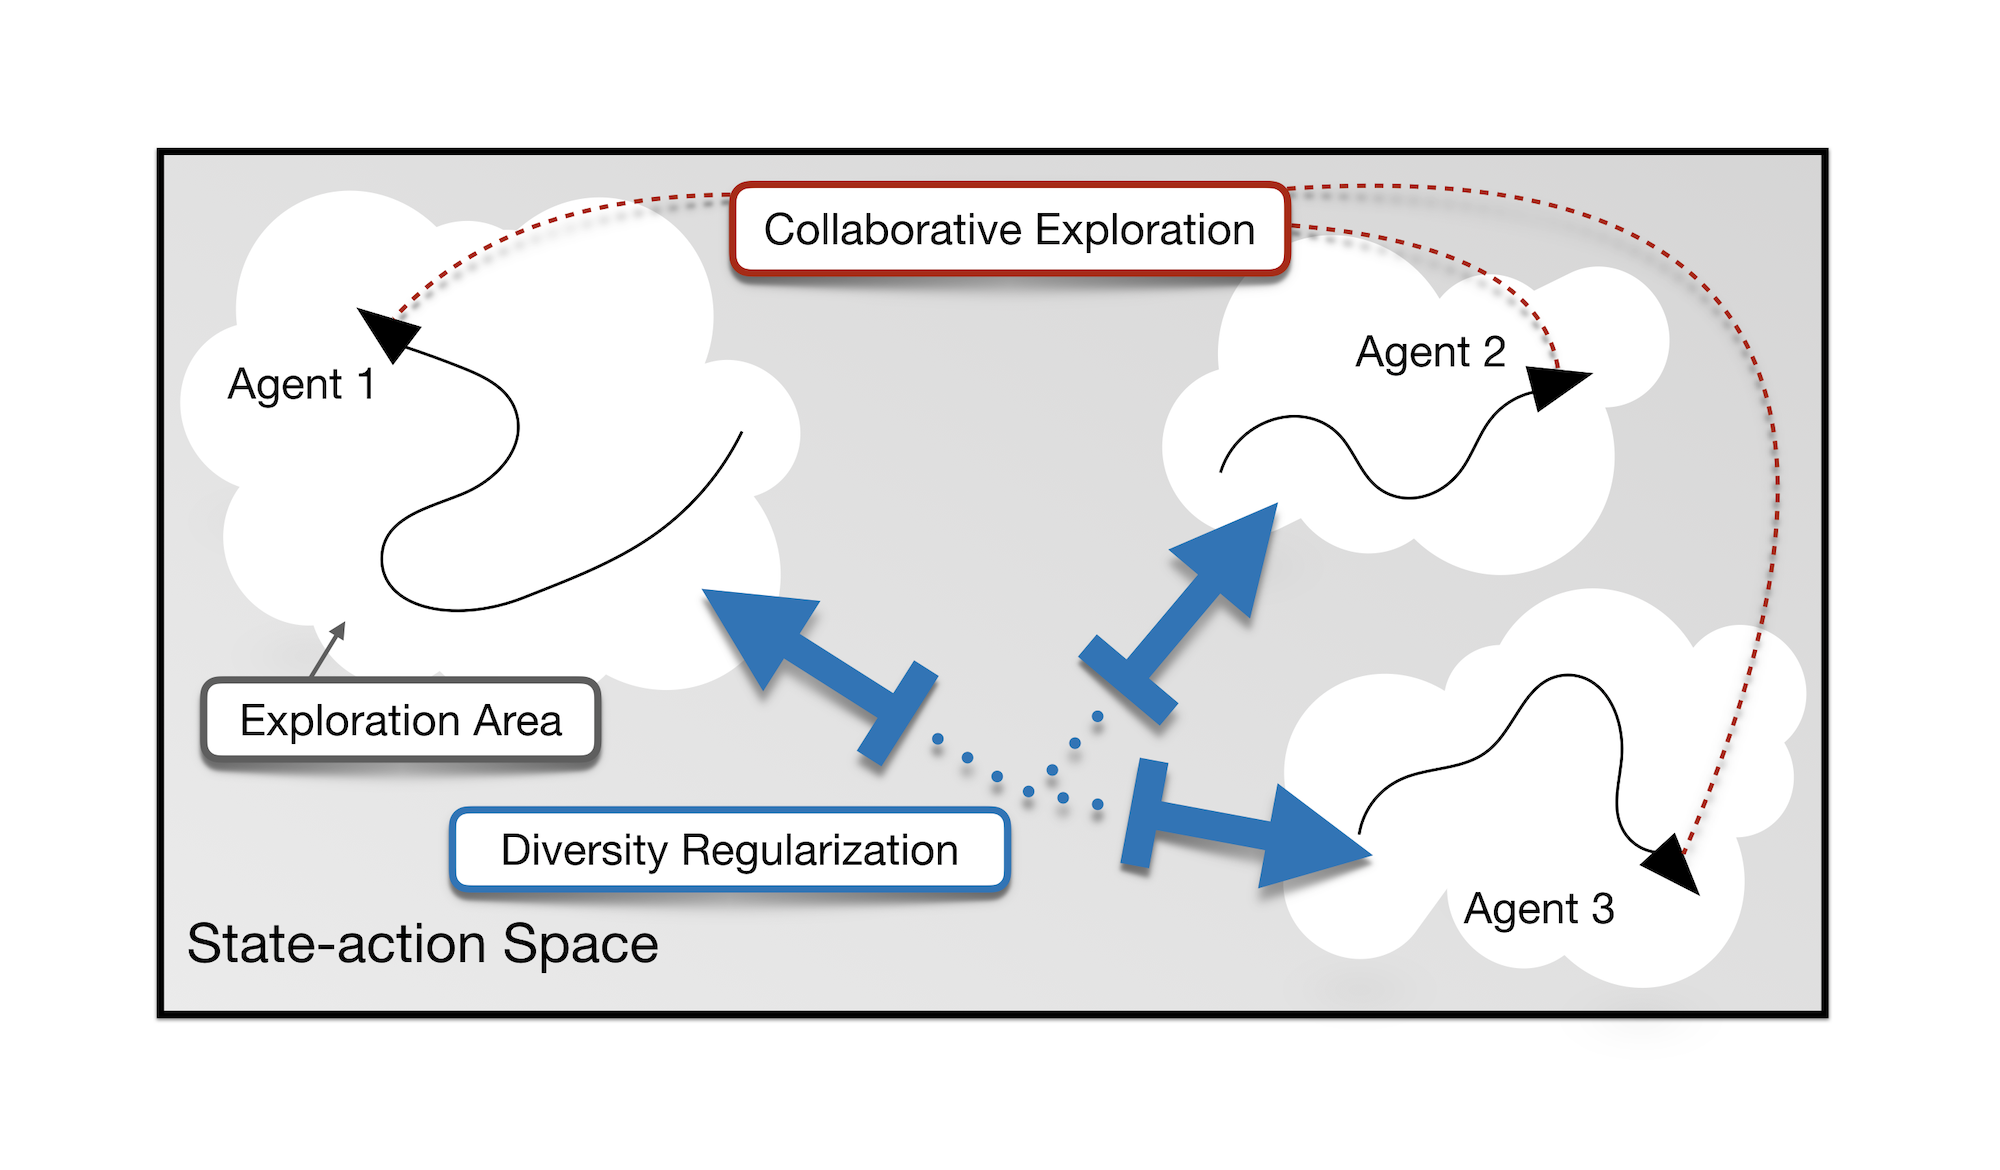
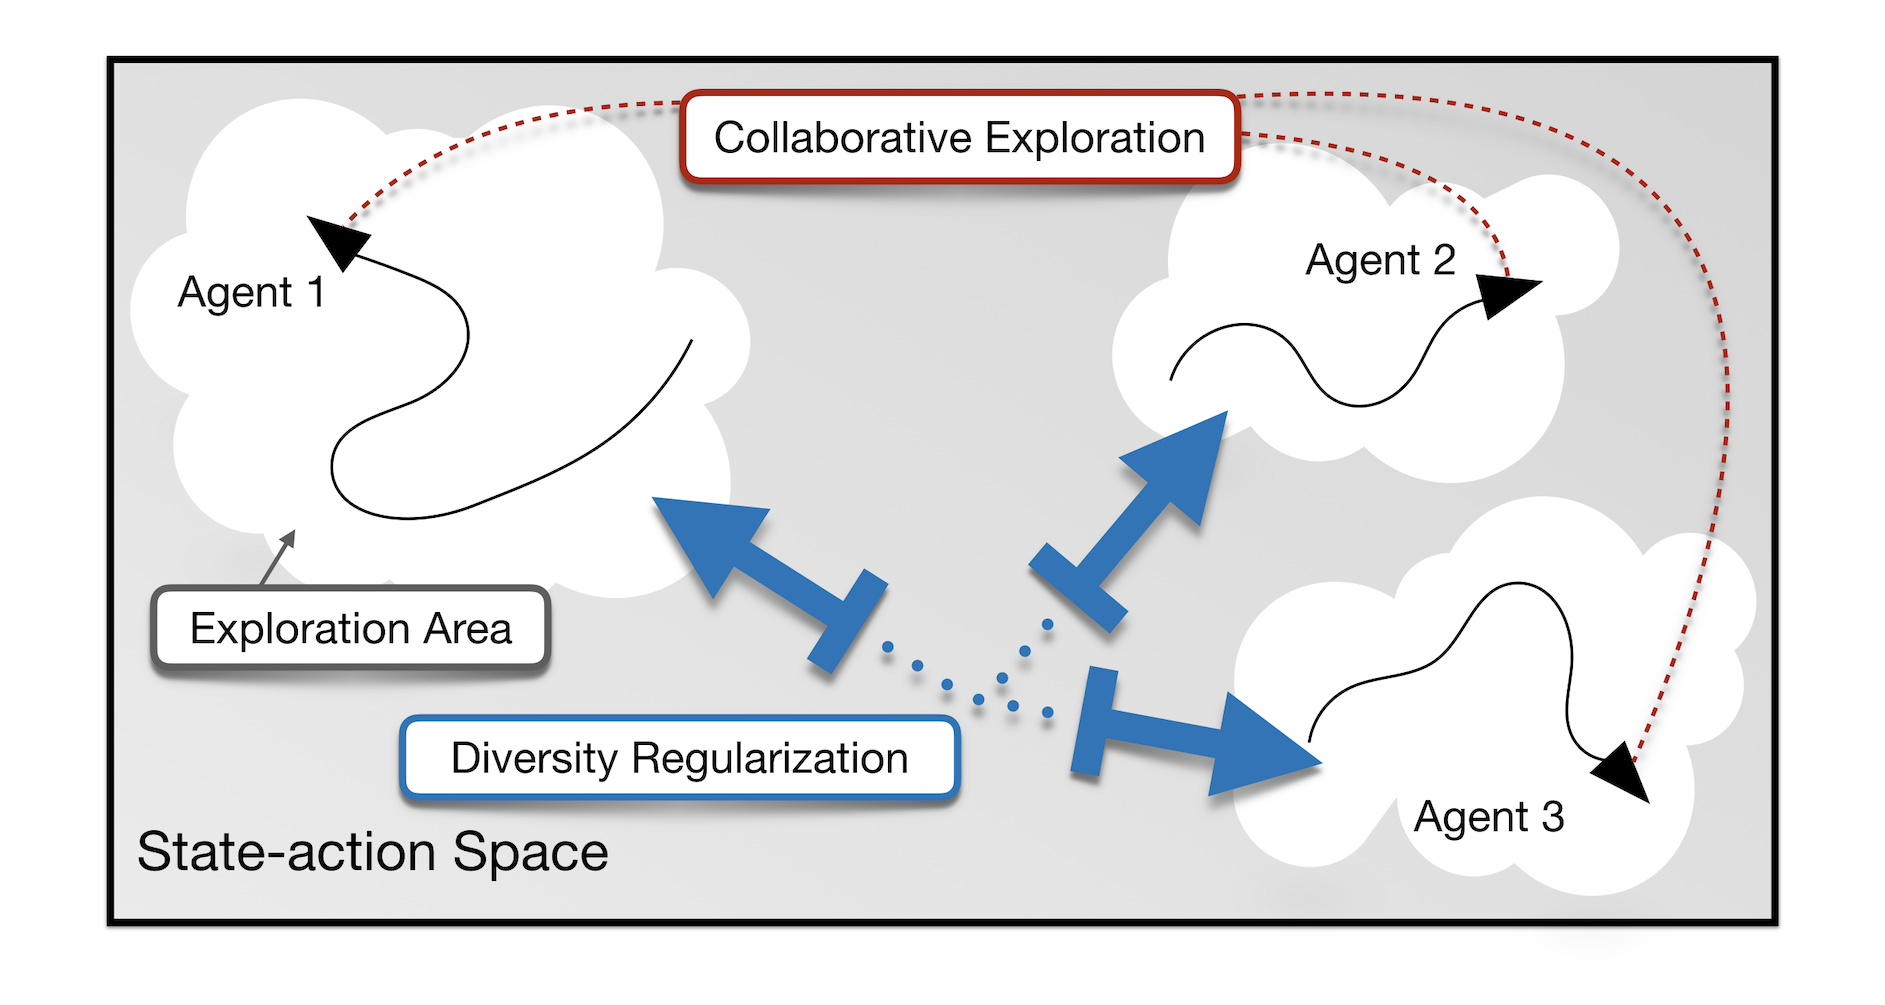
update pages

diff --git a/docs/index.html b/docs/index.html
@@ -44,9 +44,6 @@
     <a href="#" target="_blank">[Paper]</a>&nbsp;
     <a href="https://github.com/decisionforce/DiCE" target="_blank">[Code]</a>
   </div>
-  <div class="teaser">
-    <img src="assets/github-teaser.png">
-  </div>
 </div>
 <!-- === Home Section Ends === -->
 
@@ -56,24 +53,16 @@
   <div class="title">Overview</div>
   <div class="body">
 
-
-<div  id='write'  class = 'is-mac'>
-
-  <p><span>Working together in a team towards a common goal makes life easier. However, in most of the existing Reinforcement Learning (RL) algorithms, usually only one agent or a global agent with several replicas explore the environment and learn to solve the task. The agent usually limits its exploration within a small region of the state-action space due to the initialization and previous experience, as illustrated by the light area in the above figure.</span></p>
-
-  <p><span>Many works have been proposed to encourage sufficient exploration in the single-agent setting, for example, through taking action based on a stochastic distribution or adding extra components to the system like boosting entropy, intrinsic reward, extra loss, parameter noise, curiosity, and so on. However, for the above approaches, the possible </span><em><span>exploration area</span></em><span> is bounded in a limited subspace determined by the agent&#39;s behavior, which is learned from its previous experience. We call this as the </span><strong><span>local exploration</span></strong><span> since the exploration area inevitably misses those rarely visited states.</span></p>
-
-  <p><span>Another way to expand exploration space is through distributed RL which using multiple homogeneous actors to generate a large amount of trajectory data independently. However, inflating the training batch with similarly-behaving actors is still the local exploration since only the improvements at the nearby area of current policy can be realized. Motivated by the distributed RL, we address the non-local exploration problem with a new method called the </span><strong><span>Collaborative Exploration</span></strong><span> (CE) which employs a team of multiple heterogeneous agents and shares the experience of each agent among the team.</span></p>
-
-  <p><span>CE is distinguished from existing distributed RL algorithms in the following aspects: (1). CE is </span><em><span>decentralized</span></em><span> so no global agent exists in the system and we don&#39;t need to sync the weights of all agents. (2). CE leverages multiple </span><em><span>heterogeneous</span></em><span> agents that can update individually based on the shared experiences and the diversity among them is preserved via a regularization mechanism. (3). CE enables the </span><em><span>non-local exploration</span></em><span> thus breaks the limits of the previous single-agent setting, which is verified by the performance improvement in the extensive experiments.</span></p>
-
-  <p><span>Since all the agents are trained with the same shared data, one issue is that the diversity of agents gradually vanishes as the training goes. To resolve this, we further introduce the </span><em><span>Diversity Regularization</span></em><span> (DR) based on Feasible Direction Method that can improve the policies while preserves the diversity of agents. Compared to previous works that train a set of diverse agents in a sequential manner, DR modulates the diversity of agents that are concurrently trained, which takes much less time than the sequential training. Besides, we design a compact diversity reward, avoiding maintaining a set of auto-encoders or hand-crafted representation.</span></p>
-
-  <p><span>To summarize, we formulate a novel policy optimization framework called Diversity-regularized Collaborative Exploration (DiCE). DiCE combines the Collaborative Exploration that shares knowledge across multiple agents as well as the Diversity Regularization that directs the exploration of each agent. DiCE is implemented in both on-policy and off-policy settings and is compared with baselines e.g. PPO and SAC. The experimental results show that DiCE outperforms both on-policy and off-policy baselines in most cases in the MuJoCo locomotion benchmarks.% when sampling the same amounts of steps from the environments.</span></p>
-
-  <p>&nbsp;</p></div>
-
+  <div  class="teaser">
+    <img align=right style="width: 50%" src="assets/github-teaser.png">
   </div>
+  
+  <p>Working together in a team towards a common goal makes life easier. However, in most of the existing Reinforcement Learning (RL) algorithms, usually only one agent or a global agent with several replicas explore the environment and learn to solve the task. The agent usually limits its exploration within a small region of the state-action space due to the initialization and previous experience, as illustrated by the light area in the above figure, which we called the <strong>local exploration</strong> problem.</p>
+
+<p>We address the local exploration problem with a new policy optimization framework called Diversity-regularized Collaborative Exploration (DiCE). DiCE combines the Collaborative Exploration (CE) that shares knowledge across multiple agents as well as the Diversity Regularization (DR) that directs the exploration of each agent and maintains the diversity among them. 
+DiCE is implemented in both on-policy and off-policy settings and is compared with baselines e.g. PPO and SAC. The experimental results show that DiCE outperforms both on-policy and off-policy baselines in most cases in the MuJoCo locomotion benchmarks.% when sampling the same amounts of steps from the environments.</p>
+
+</div>
 </div>
 <!-- === Overview Section Ends === -->
 
